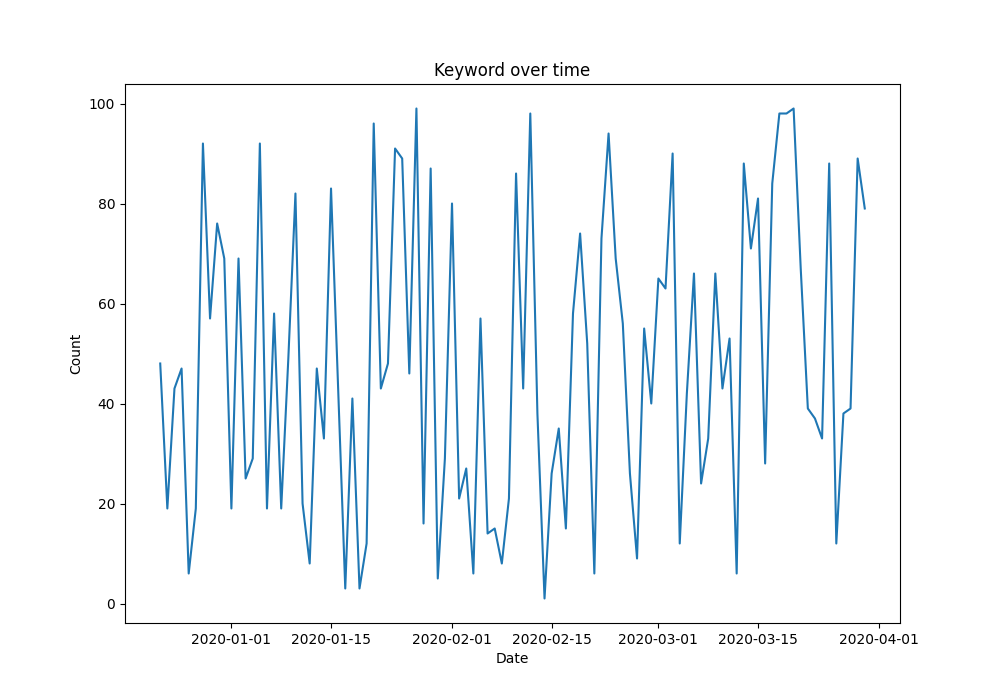
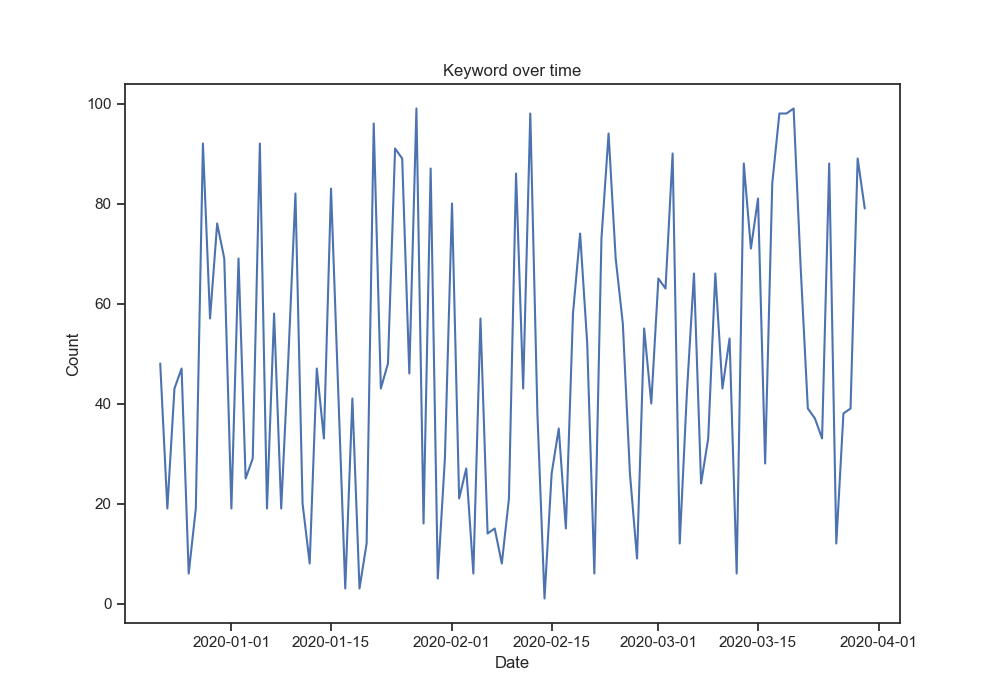
changed encoding to display Hebrew

diff --git a/LineGraph.py b/LineGraph.py
@@ -6,7 +6,7 @@ from Graph import Graph
 
 class LineGraph(Graph):
     def set_graph(self):
-        df = pd.read_csv(self.file)
+        df = pd.read_csv(self.file,encoding='Windows-1255')
         fig, ax = plt.subplots(figsize=self.shape)
         df['Date'] = pd.to_datetime(df['Date'], format='%Y-%m-%d')
         sns.lineplot(ax=ax, x=df[self.x], y=df[self.y], data=df).set(title=self.title)

diff --git a/HistGraph.py b/HistGraph.py
@@ -6,6 +6,6 @@ from Graph import Graph
 
 class HistGraph(Graph):
     def set_graph(self):
-        df = pd.read_csv(self.file)
-        fig, ax = plt.subplots(figsize=self.shape)
+        df = pd.read_csv(self.file, encoding='Windows-1255')
+        fig, _ = plt.subplots(figsize=self.shape)
         sns.barplot(x=df[self.x], y=df[self.y], errorbar=None).set_title(self.title)

diff --git a/CompareGraph.py b/CompareGraph.py
@@ -7,7 +7,7 @@ from Graph import Graph
 class CompareGraph(Graph):
     def set_graph(self):
         sns.set_theme(style="ticks")
-        df = pd.read_csv(self.file)
+        df = pd.read_csv(self.file,encoding='Windows-1255')
         fig, ax = plt.subplots(figsize=self.shape)
         sns.despine(fig)
         df['Date'] = pd.to_datetime(df['Date'], format='%Y-%m-%d')

diff --git a/Graph.py b/Graph.py
@@ -31,3 +31,6 @@ class Graph:
 
     def get_graph(self):
         plt.show()
+
+    def graph_to_image(self, image_name):
+        plt.savefig(image_name)
